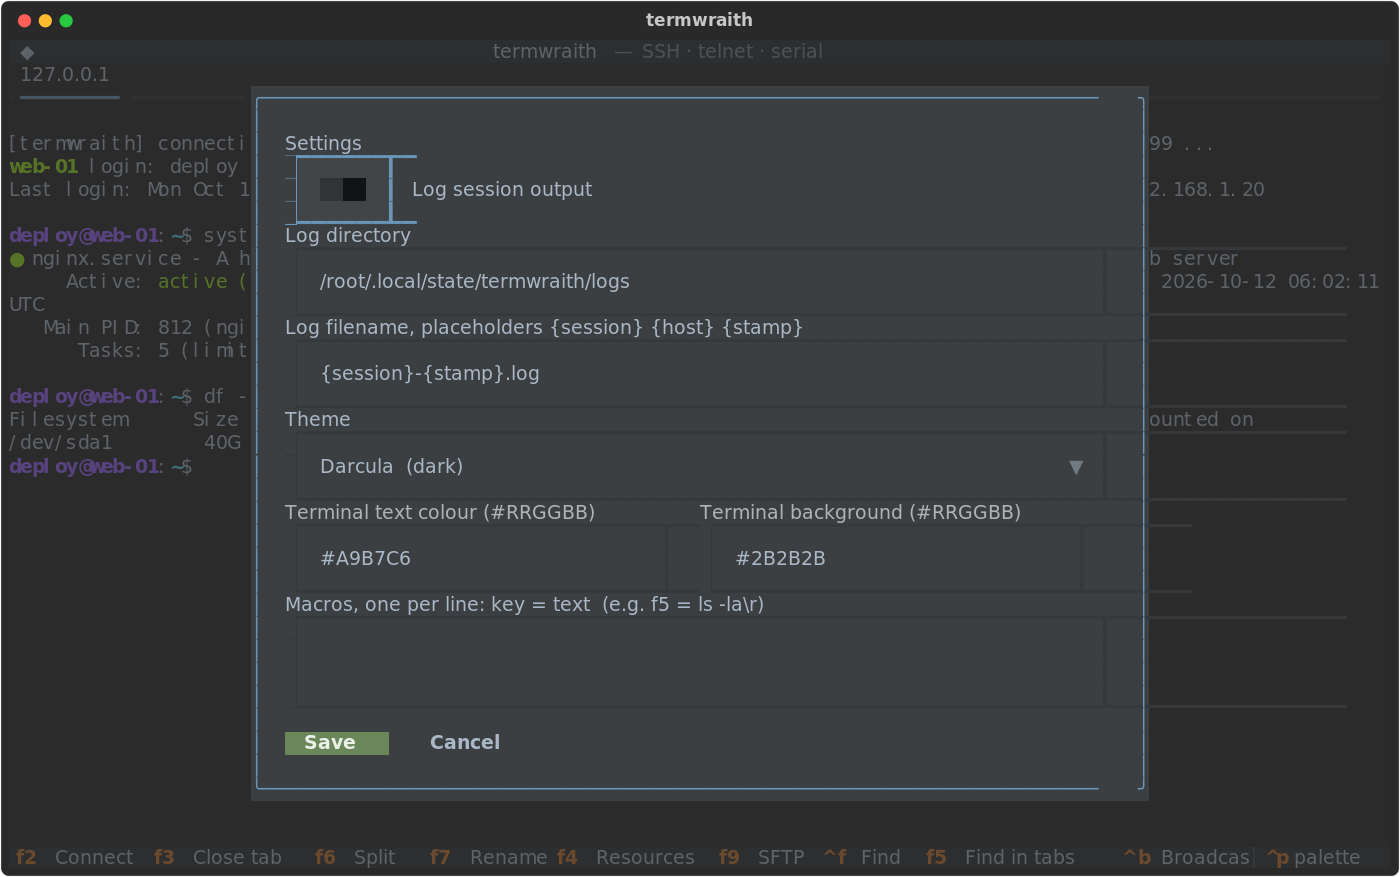
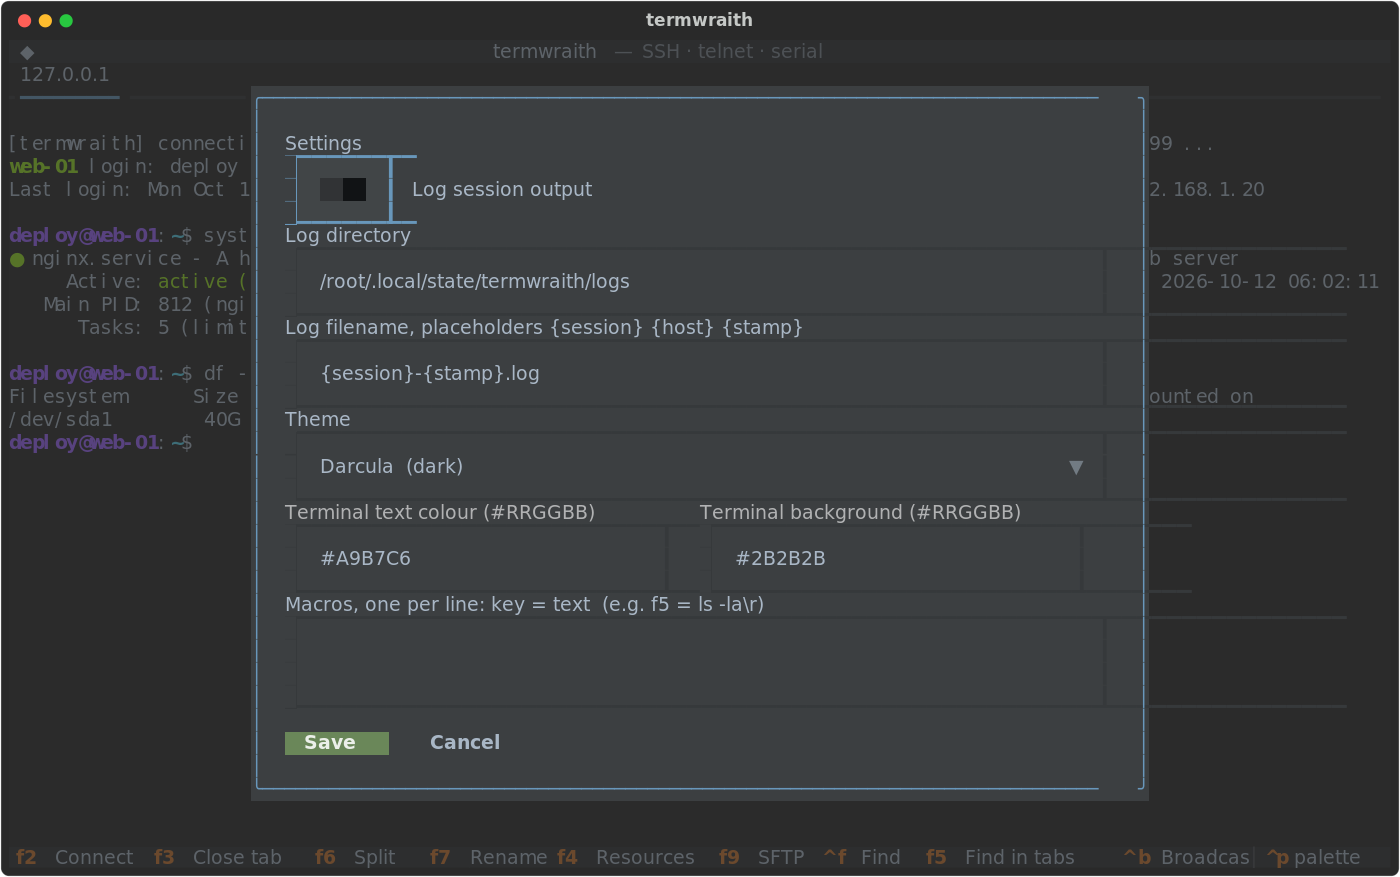
Polish layout: refresh terminal on resize, centre search results, hosts empty state
Terminal panes kept stale strips after a resize until the next repaint, so the
screen looked narrower than its tab. Search results now centre and fill the
dialog width, and the Hosts screen explains itself when empty. Regenerated
the README screenshots to match.

Changed region(s): [[0.0, 0.3387, 0.1843, 0.5542], [0.8293, 0.431, 0.8907, 0.4926]]

diff --git a/termwraith/app.py b/termwraith/app.py
@@ -367,6 +367,8 @@ class HostsScreen(ModalScreen[None]):
     def compose(self) -> ComposeResult:
         with Vertical(id="box"):
             yield Label("Known hosts (highlight a line, then Remove)")
+            if not self._lines:
+                yield Label("No known hosts yet. Hosts are saved on first connect.")
             yield OptionList(*self._lines, id="hosts-list")
             with Horizontal(classes="buttons"):
                 yield Button("Remove", variant="error", id="remove")
@@ -711,7 +713,8 @@ class TermWraith(App):
     SftpScreen { align: center middle; }
     ResourcesScreen { align: center middle; }
     #res-box { width: 70; height: auto; border: thick $accent; background: $surface; padding: 1 2; }
-    #hits { height: auto; max-height: 20; }
+    SearchResults { align: center middle; }
+    #hits { width: 100%; height: auto; max-height: 20; }
     #filter { margin-bottom: 1; border: round $primary-darken-2; }
     #filter:focus { border: round $accent; }
     #saved { height: 14; background: $panel; padding: 0 1; }

diff --git a/termwraith/terminal.py b/termwraith/terminal.py
@@ -398,6 +398,7 @@ class SSHTerminal(Widget, can_focus=True):
                 self._proc.change_terminal_size(cols, rows)
             if self._filter is not None and self._filter.naws and self._tn is not None:
                 self._tn.write(self._filter.window_packet(cols, rows))
+            self.refresh()
 
     def on_focus(self) -> None:
         self.refresh()
